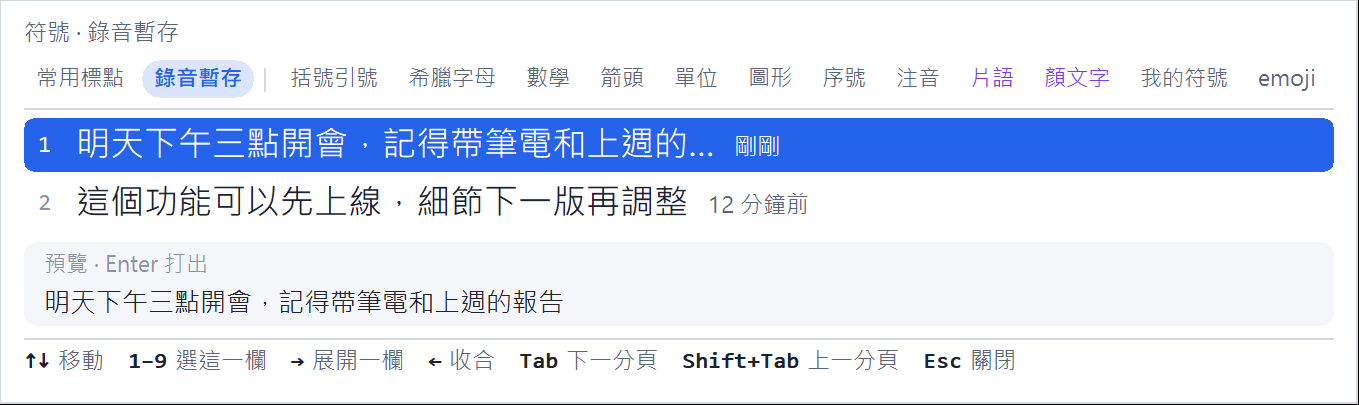
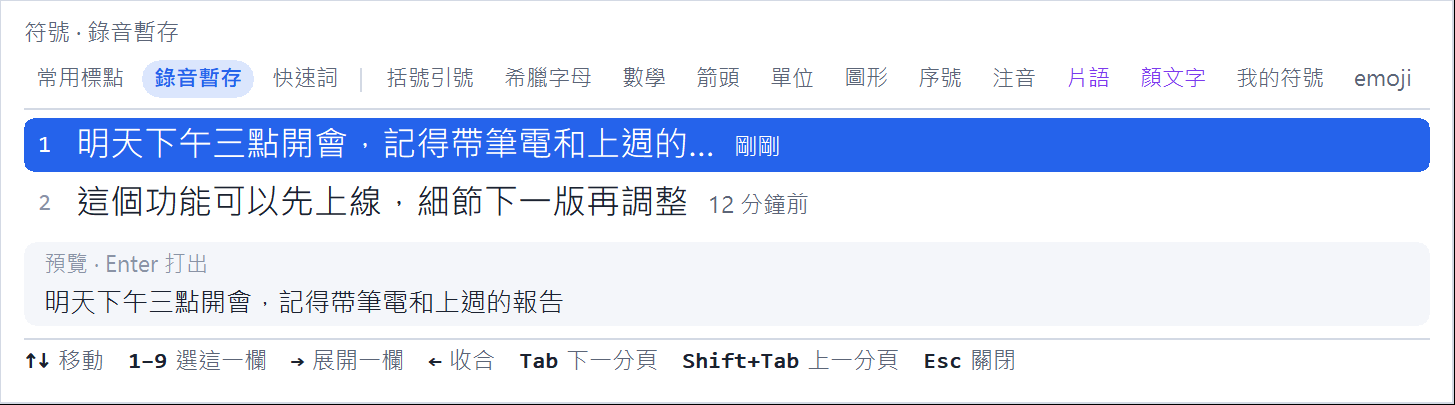
docs: 首頁「下一版 0.11.0-alpha.1」、0.10.1 收進清單標未發佈；重跑文件圖
做了什麼
- 版本籤：右上角小籤和「下一版」卡片改成 0.11.0-alpha.1（測試版）三個重點；0.10.1 移進清單，
  標「未發佈」、沒有連結（只在本機，CLAUDE.md §3 的連結原則）。「目前」仍是 GitHub 上的 beta.1。
- 打字那一幕：藍點改成「● Enter 送出」、標點送出的就是畫面上的字，多一張 typing-composing.png。
- 符號那一幕：閒置也能單按 Ctrl、前三頁（常用標點、錄音暫存、快速詞）、;; 的 → 看更多，多一張 quick-tab.png。
- make_docs_images 加 quick-tab、typing-composing 兩張；全部重跑（palette、錄音暫存、設定頁的分頁籤都多了快速詞）。

為什麼
CLAUDE.md §1、§3：文件圖由程式產生、版本籤每次改版號都要跟著改，首頁本機版與 Artifact 同步。

diff --git a/docs/index.html b/docs/index.html
@@ -308,7 +308,7 @@ footer .keycap-sm { font-size: 13px; width: 28px; height: 28px; border-radius: 7
   <!-- Version list: written by hand, updated with every version (CLAUDE.md §3).
        It ships with the page so the local copy opens offline. -->
   <details class="ver" id="ver">
-    <summary aria-label="版本：目前 0.10.0-beta.1，已在 GitHub 發佈；下一版 0.10.1 試用中。點開看所有版本"><i class="dot"></i><b>v0.10.0-beta.1</b>已發佈<span class="next" aria-hidden="true">下一版 0.10.1</span><span class="chev" aria-hidden="true">▼</span></summary>
+    <summary aria-label="版本：目前 0.10.0-beta.1，已在 GitHub 發佈；下一版 0.11.0-alpha.1 試用中。點開看所有版本"><i class="dot"></i><b>v0.10.0-beta.1</b>已發佈<span class="next" aria-hidden="true">下一版 0.11.0-alpha.1</span><span class="chev" aria-hidden="true">▼</span></summary>
     <div class="ver-pop">
       <h3>版本</h3>
       <p class="intro">「下載安裝檔」拿到的是最新的正式版。測試版、候選版多半只在開發者的電腦上建置、試用；下面有附「下載」連結的，才是在 GitHub 上公開發佈過的。</p>
@@ -316,14 +316,22 @@ footer .keycap-sm { font-size: 13px; width: 28px; height: 28px; border-radius: 7
       <div class="ver-group">
         <p class="eyebrow">下一版</p>
         <div class="next-card">
-          <div class="next-head"><span class="v-name">0.10.1</span><span class="st st-unpub">試用中</span></div>
+          <div class="next-head"><span class="v-name">0.11.0-alpha.1</span><span class="st st-alpha">測試版</span></div>
           <ul class="next-items">
-            <li><b>快速詞</b>：打 <code>art</code> 按 <kbd>Tab</kbd> 就是 artifact，觸發字和文字自己設</li>
-            <li><b>你的建議在前</b>：接續建議分兩行，你打過的詞在上、詞庫的在下</li>
-            <li><b>錄音暫存</b>：語音的字切視窗太快也不會弄丟，從符號面板再打一次</li>
+            <li><b>按標點不再改字</b>：送出的就是畫面上看到的，英文也不會在那一瞬間被換掉</li>
+            <li><b>「● Enter 送出」</b>：字還沒送出時，游標旁邊直接說怎麼送出；樣子可以換</li>
+            <li><b>閒置時的符號面板</b>：沒在打字時單按 Ctrl 也是新的面板，還多了「快速詞」一頁</li>
           </ul>
           <p class="next-foot">在開發者的電腦上試用中，還沒有下載；發佈之後會移到下面。</p>
         </div>
+      </div>
+
+      <div class="ver-group">
+        <p class="eyebrow">0.10.1</p>
+        <ul class="ver-list">
+          <li><span class="v-name">0.10.1<span class="v-date">2026-11-18</span></span>
+            <span class="v-body"><span class="st st-unpub">未發佈</span><span class="v-note">快速詞（打 art 按 Tab 就是 artifact）；接續建議分兩行，你打過的詞在上；錄音暫存：語音的字切視窗太快也不會弄丟</span></span></li>
+        </ul>
       </div>
 
       <div class="ver-group">
@@ -540,8 +548,9 @@ footer .keycap-sm { font-size: 13px; width: 28px; height: 28px; border-radius: 7
       <div>
         <h3>打字時只有一條細細的提示列</h3>
         <p>還沒成字的注音在左邊，右邊靠齊的是按 <kbd>Tab</kbd> 會接上的詞。
-          右邊那一區位置固定，打字快的人可以整區無視它。沒話說的時候它縮成一個藍點，
-          提醒你這段字還沒送出去。</p>
+          右邊那一區位置固定，打字快的人可以整區無視它。沒話說的時候它縮成「● Enter 送出」，
+          提醒你這段字還沒送出去、按哪個鍵送出（嫌多可以換成只有一個點）。按標點時送出的也就是畫面上的字，
+          不會在按下去的那一瞬間又變。</p>
         <p>你自己的排在前面：建議分兩行，上面一行是你的——<b>快速詞</b>（自己設的觸發字，打 <code>art</code>
           按 <kbd>Tab</kbd> 就是 artifact）和你打過的詞，下面一行才是詞庫原本的。</p>
         <p>輸入法替你做了決定時也在這裡說一聲：紅色是略過了一個鍵，琥珀色是把打錯一鍵的英文字改好了
@@ -552,7 +561,8 @@ footer .keycap-sm { font-size: 13px; width: 28px; height: 28px; border-radius: 7
         <img src="images/typing-suggestion.png" alt="提示列：淡藍小籤「的 Tab」，後面接「在 · 是」" style="margin-top:10px">
         <img src="images/typing-dropped.png" alt="提示列：紅色小籤「略過 e ↓」，右邊是注音 ㄍㄥ" style="margin-top:10px">
         <img src="images/typing-fixed.png" alt="提示列：琥珀色小籤「更正 wrold → world ↓」" style="margin-top:10px">
-        <figcaption>由上而下：你的建議在上一行（橘色快速詞、紫色你打過的詞），詞庫的在下一行；只有詞庫建議時是一行；有一個鍵被當成雜鍵略過了；英文打錯一鍵，自動改好了。</figcaption>
+        <img src="images/typing-composing.png" alt="提示列只剩一個藍點和「Enter 送出」" style="margin-top:10px">
+        <figcaption>由上而下：你的建議在上一行（橘色快速詞、紫色你打過的詞），詞庫的在下一行；只有詞庫建議時是一行；有一個鍵被當成雜鍵略過了；英文打錯一鍵，自動改好了；沒別的話說時，提醒你字還沒送出。</figcaption>
       </figure>
     </div>
 
@@ -604,16 +614,17 @@ footer .keycap-sm { font-size: 13px; width: 28px; height: 28px; border-radius: 7
         <p><b>連打兩個冒號 <code>::</code></b>（<kbd>Shift</kbd>+<kbd>;</kbd> 兩下）就開符號面板，
           <kbd>Tab</kbd> 換到括號、希臘字母、數學、箭頭、單位、顏文字、emoji。
           <b>連打兩個分號 <code>;;</code></b> 叫出自己存的罐頭訊息，可以接關鍵字（<code>;;addr</code>），
-          選中時先預覽全文再打出去。符號面板也可以單按一下 <kbd>Ctrl</kbd> 打開（預設右邊，可改左邊或關掉）。兩個都不用記熱鍵，也不會在英文詞中間誤觸——
+          選中時先預覽全文再打出去，片語多過一欄時 <kbd>→</kbd> 看更多。符號面板也可以單按一下 <kbd>Ctrl</kbd> 打開（預設右邊，可改左邊或關掉），沒在打字時也一樣。兩個都不用記熱鍵，也不會在英文詞中間誤觸——
           C++ 的 <code>std::vector</code> 照常打得出來。</p>
-        <p>符號面板第二頁是<b>錄音暫存</b>：語音說過的話由新到舊列在這裡，結果出來前就切走視窗、字沒打進去，選一下再打一次。
-          留多久可以設，輸入法重新啟動就清空。</p>
+        <p>前三頁是單按 <kbd>Ctrl</kbd> 最常要的：常用標點、<b>錄音暫存</b>（語音說過的話由新到舊列在這裡，結果出來前就切走視窗、
+          字沒打進去，選一下再打一次；留多久可以設，輸入法重新啟動就清空），和<b>快速詞</b>（忘了觸發字也能從這裡選）。</p>
       </div>
       <figure>
         <img src="images/palette.png" alt="符號面板：分組清單，分類籤在上方">
         <img src="images/snippets.png" alt="片語清單，選中的片語在下方預覽全文" style="margin-top:10px">
         <img src="images/voice-recent.png" alt="符號面板的錄音暫存分頁：剛剛說過的兩句話，標著剛剛、12 分鐘前，下方預覽全文" style="margin-top:10px">
-        <figcaption>每一頁都是同一套分組清單：↓ 同一欄、→ 下一欄、<kbd>1</kbd>–<kbd>9</kbd> 選這一欄。最下面是錄音暫存。</figcaption>
+        <img src="images/quick-tab.png" alt="符號面板的快速詞分頁：「我們下週二見，記得帶筆電！」，觸發字「我們」" style="margin-top:10px">
+        <figcaption>每一頁都是同一套分組清單：↓ 同一欄、→ 下一欄、<kbd>1</kbd>–<kbd>9</kbd> 選這一欄。最下面兩張是錄音暫存和快速詞。</figcaption>
       </figure>
     </div>
 

diff --git a/tools/make_docs_images.py b/tools/make_docs_images.py
@@ -40,6 +40,8 @@ PANELS = [
     ("palette", "ji3::{TAB}{TAB}{TAB}", "candidates"),            # symbol grid
     ("snippets", "ji3;;", "candidates"),
     ("voice-recent", "{RCTRL}{TAB}", "candidates"),          # 錄音暫存
+    ("quick-tab", "{RCTRL}{TAB}{TAB}", "candidates"),        # 快速詞, also when nothing is typed
+    ("typing-composing", "ji3m06ok", "hint"),                # ● Enter 送出: not sent yet
 ]
 SETTINGS_VIEWS = ["general", "dict", "punct", "practice", "about"]
 
